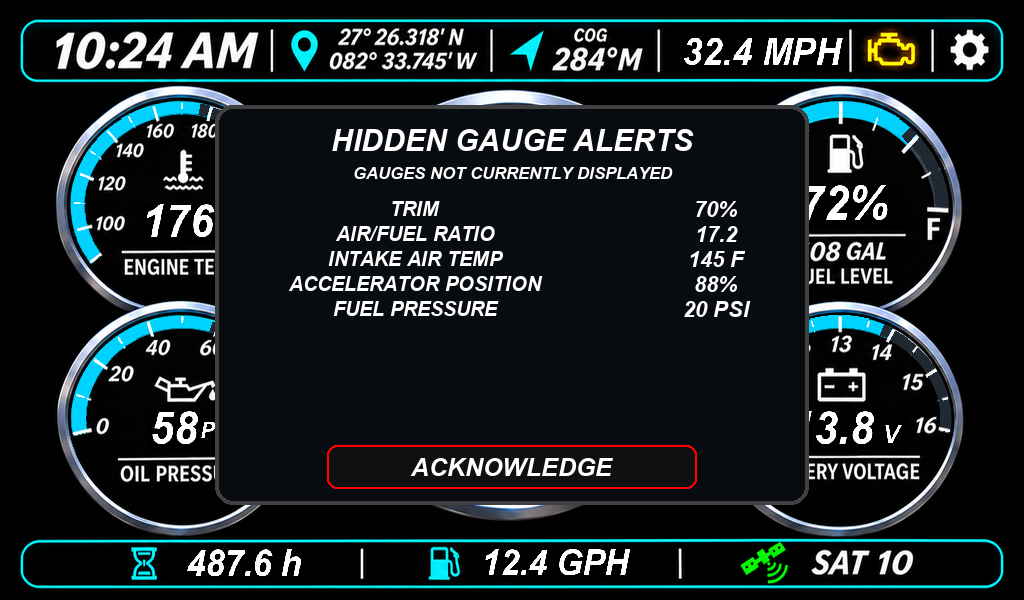
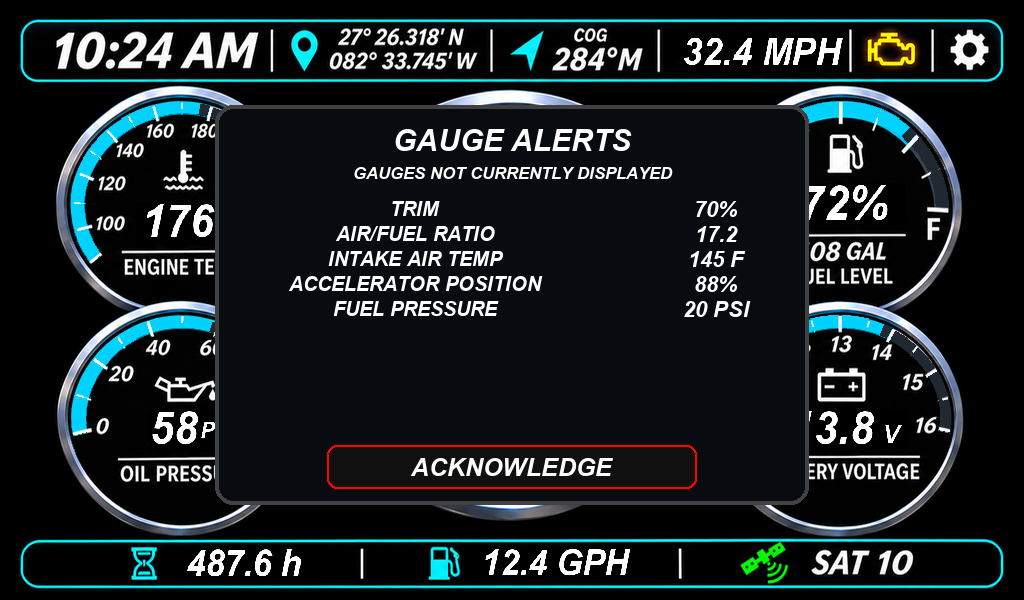
Rename alert popup title to Gauge Alerts

Changed region(s): [[0.3125, 0.21, 0.6875, 0.27]]

diff --git a/tools/selectable_assets.py b/tools/selectable_assets.py
@@ -161,7 +161,7 @@ def generate_hidden_alert_previews(root):
         red=(255,0,0); ink=red if flash else 'white'
         d.rounded_rectangle((215,105,808,504),18,fill=red if flash else (66,65,66))
         d.rounded_rectangle((219,109,804,500),14,fill=(8,12,16))
-        fit_text(d,(512,140),'HIDDEN GAUGE ALERTS',30,540,ink)
+        fit_text(d,(512,140),'GAUGE ALERTS',30,540,ink)
         fit_text(d,(512,173),'GAUGES NOT CURRENTLY DISPLAYED',17,540)
         for row,(name,value) in enumerate(rows):
             fit_text(d,(415,209+row*25),name,20,360,ink)

diff --git a/src/main.cpp b/src/main.cpp
@@ -280,7 +280,7 @@ static void hidden_alert_popup(const float (&values)[gauge_count]) {
     uint16_t color=hidden_alerts.critical_mask?0xf800:0xffe0;
     rounded_rect(215,105,809,505,18,flash?color:0x4208);
     rounded_rect(219,109,805,501,14,0x0862);
-    ui_text("HIDDEN GAUGE ALERTS",512,140,30,540,flash?color:0xffff);
+    ui_text("GAUGE ALERTS",512,140,30,540,flash?color:0xffff);
     ui_text("GAUGES NOT CURRENTLY DISPLAYED",512,173,17,540);
     unsigned row=0;
     for(int severity=2;severity>=1;severity--) for(unsigned i=0;i<gauge_count;i++) {

diff --git a/README.md b/README.md
@@ -40,7 +40,7 @@ With the demo running and the serial port free, `python tools/check_alarm_runtim
 
 ## Alerts for gauges not displayed
 
-All ten readings are monitored regardless of the current layout. An alert from any type absent from all five positions opens a **HIDDEN GAUGE ALERTS** popup with the gauge names and live readings. Critical alerts flash red; warnings flash yellow (amber at night). The border, heading, and critical rows pulse once per second while the values remain readable. Multiple hidden alerts share one popup, with critical conditions listed first. All nine possible hidden types fit without scrolling, even when one gauge is duplicated in all five positions.
+All ten readings are monitored regardless of the current layout. An alert from any type absent from all five positions opens a **GAUGE ALERTS** popup with the gauge names and live readings. Critical alerts flash red; warnings flash yellow (amber at night). The border, heading, and critical rows pulse once per second while the values remain readable. Multiple hidden alerts share one popup, with critical conditions listed first. All nine possible hidden types fit without scrolling, even when one gauge is duplicated in all five positions.
 
 Tap **ACKNOWLEDGE** to close the popup for the current episodes. A new hidden alert, a recovered alert returning, or a warning escalating to critical opens it again. The popup closes automatically when no unacknowledged hidden condition remains, including when an alerted type is placed on the dashboard. Acknowledgement does not clear the underlying condition or stop a displayed gauge from flashing. It resets at restart. The alert popup takes priority over settings or gauge selection; acknowledging it returns to the previous popup.
 
